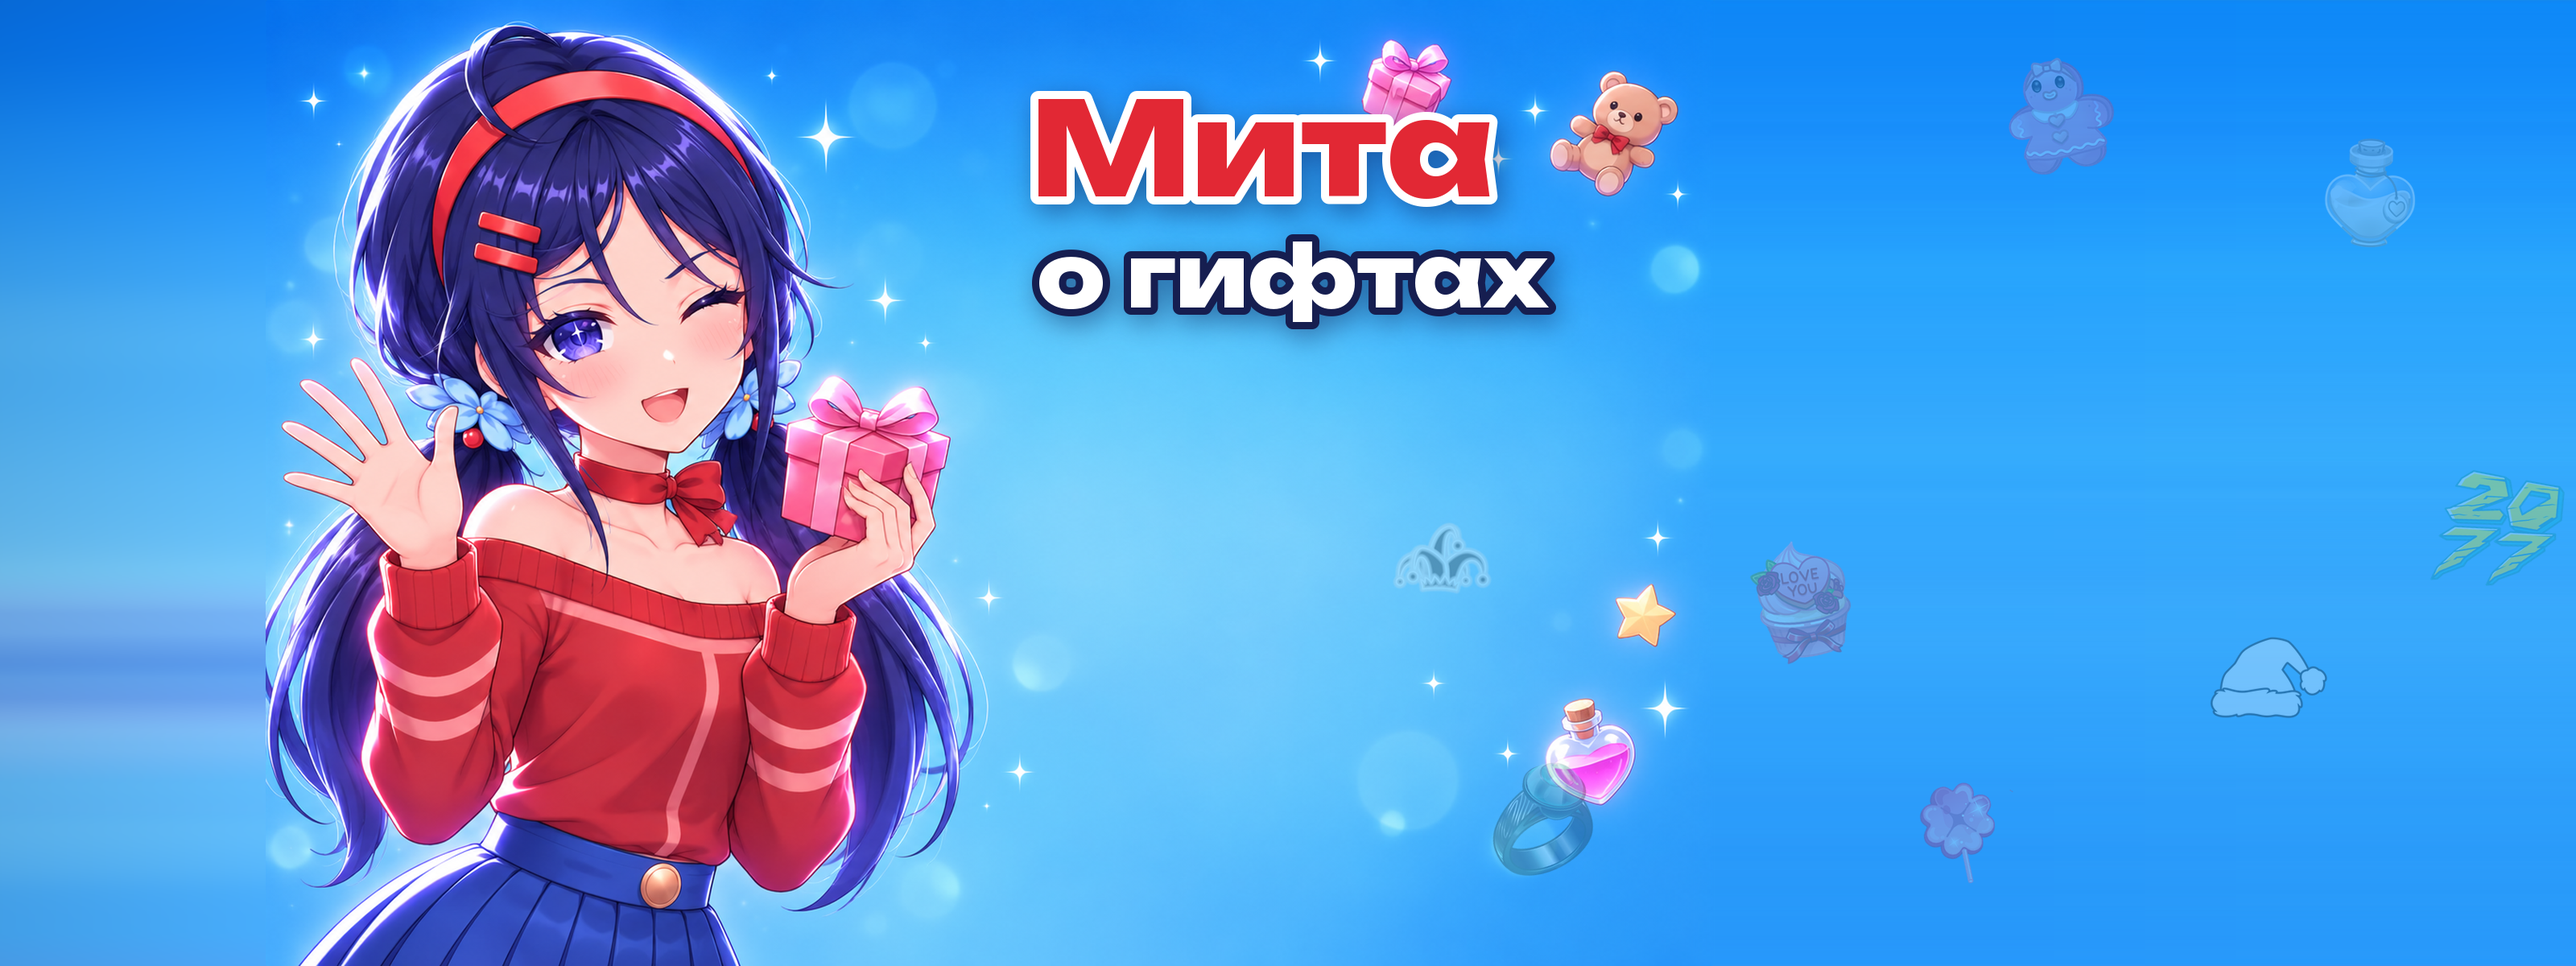
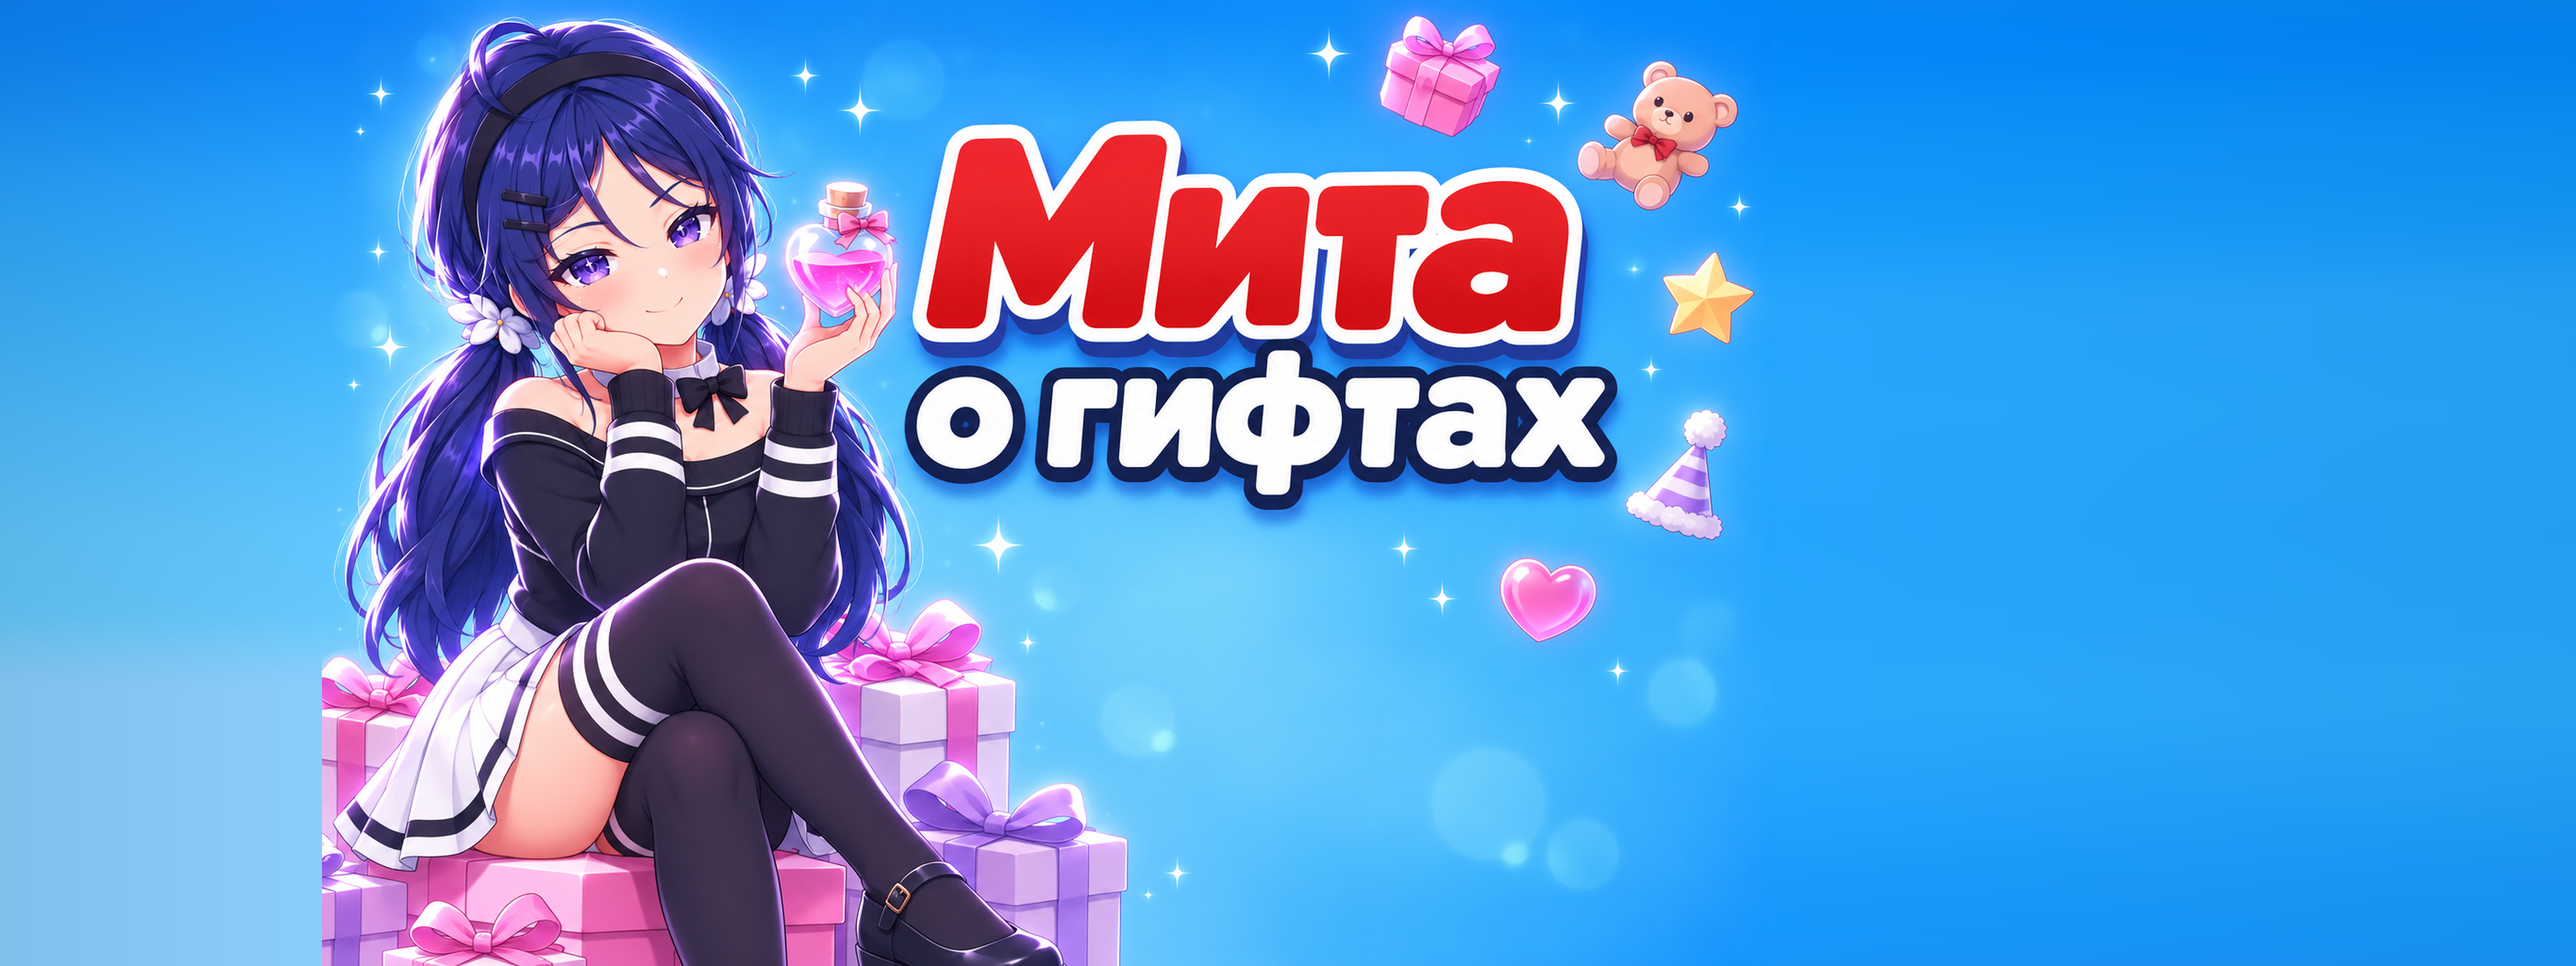
канал: баннер v3 с надписью от ChatGPT (Мита в чёрно-белом на подарках)
Claude-Session: https://claude.ai/code/session_012PNwYZXdw6QfqQCMnTcc5j

diff --git a/projects/49-mita-monochrome/channel/make_banner_v3.py b/projects/49-mita-monochrome/channel/make_banner_v3.py
@@ -1,0 +1,38 @@
+"""Баннер v3 (2026-11-21): картинка ChatGPT автора с надписью «Мита о гифтах» (banner_v3_raw.png) целиком, вписана по
+высоте в 3200×1200 (≈2,67:1) и сдвинута так, чтобы Мита была в видимой зоне профиля (x ≥ 0,12 W), а надпись не
+заходила в зону кнопок (x < 0,63 W при y 0,28–0,47 H). Фон по краям дотянут цветом фона (без полос).
+python3 make_banner_v3.py banner_v3_raw.png banner_v3.png"""
+import sys
+import numpy as np
+from PIL import Image
+W, H = 3200, 1200
+X0 = 400
+art = Image.open(sys.argv[1]).convert('RGB')
+art = art.resize((round(art.width * H / art.height), H), Image.LANCZOS)
+a = np.array(art).astype(float)
+
+
+def bg_column(x):
+    col = a[:, x, :].copy()
+    ok = (col[:, 2] > 225) & (col[:, 1] > 100) & (col[:, 0] < 140)
+    rows = np.arange(H)
+    for c in range(3):
+        col[:, c] = np.interp(rows, rows[ok], col[ok, c])
+    k = np.ones(81) / 81
+    return np.stack([np.convolve(np.pad(col[:, c], 40, mode='edge'), k, 'valid') for c in range(3)], 1)
+
+
+out = np.zeros((H, W, 3))
+L, R = bg_column(0), bg_column(art.width - 1)
+out[:, :X0] = L[:, None, :] * np.linspace(0.93, 1.0, X0)[None, :, None]
+out[:, X0 + art.width:] = R[:, None, :] * np.linspace(1.0, 0.95, W - X0 - art.width)[None, :, None]
+out[:, X0:X0 + art.width] = a
+# мягкий шов слева: первые 60 px картинки смешиваем с фоном только там, где у края фон (волосы/коробки не трогаем)
+for i in range(60):
+    w = i / 59
+    col = a[:, i]
+    isbg = ((col[:, 2] > 225) & (col[:, 1] > 100) & (col[:, 0] < 140))[:, None]
+    out[:, X0 + i] = np.where(isbg, L * (1 - w) + col * w, col)
+Image.fromarray(out.clip(0, 255).astype(np.uint8)).save(sys.argv[2], quality=95)
+s = H / 1024
+print(sys.argv[2], 'надпись до x ≈ %.3f W; Мита с x ≈ %.3f W' % ((X0 + 1340 * s) / W, (X0 + 20 * s) / W))

diff --git a/projects/49-mita-monochrome/channel/README.md b/projects/49-mita-monochrome/channel/README.md
@@ -8,3 +8,4 @@
 
 - 2026-11-21: новая аватарка avatar.png (= avatar_v2.png, ChatGPT автора, 9/10): Мита подмигивает, «тсс», маленький подарок, голубой фон. Старая — avatar_v1.png.
 - 2026-11-21: новый баннер banner_wide.png (= banner_v2.png, 3200×1200): картинка ChatGPT автора banner_v2_raw.png (8,5/10) целиком, сдвинута в видимую зону, надпись «Мита о гифтах» — make_banner_v2.py. Старый — banner_wide_v1.png.
+- 2026-11-21: баннер v3 — картинка ChatGPT автора с надписью «Мита о гифтах» (banner_v3_raw.png, 9/10), Мита в чёрно-белом наряде на подарках; make_banner_v3.py → banner_v3.png = banner_wide.png.
